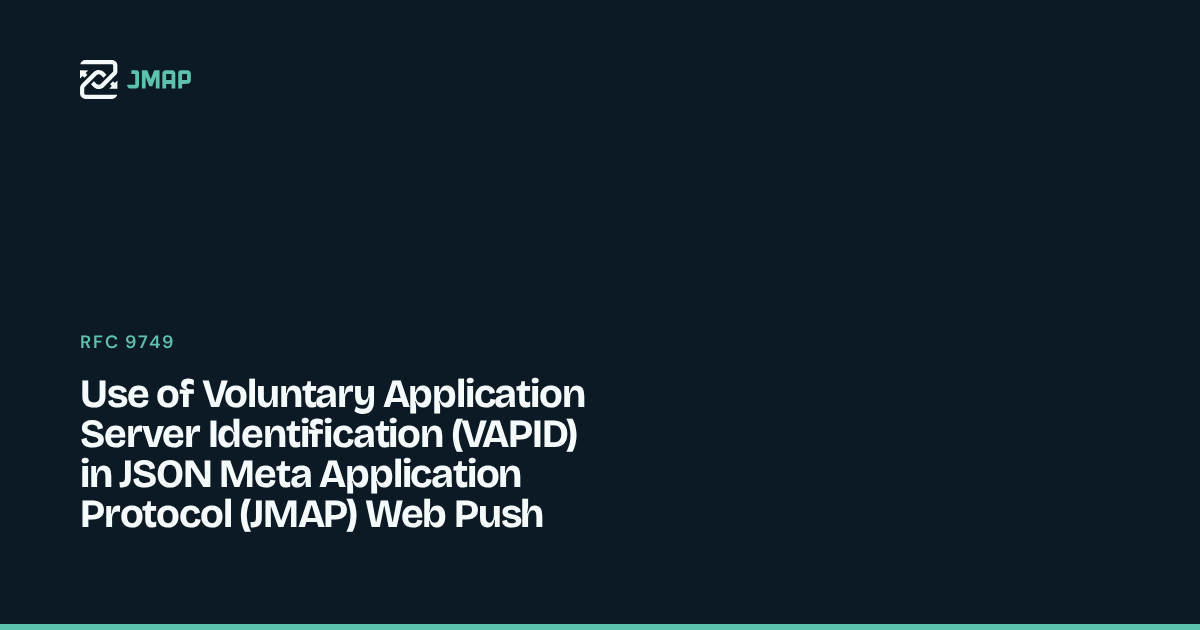
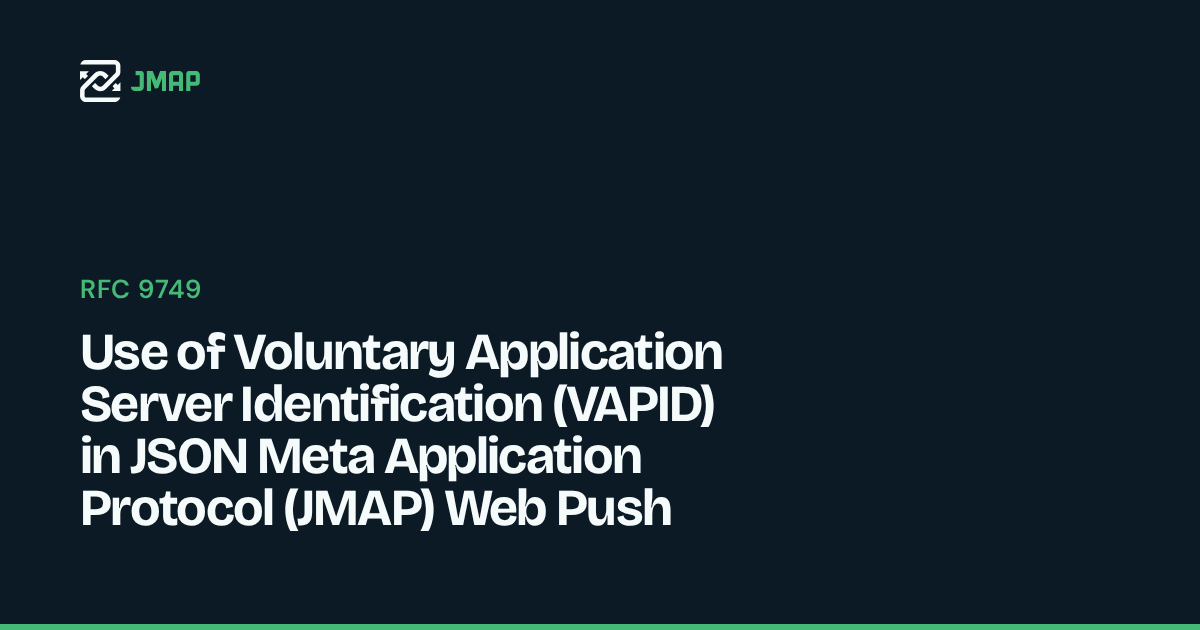
Update og images

diff --git a/_scripts/og-image.html b/_scripts/og-image.html
@@ -27,14 +27,18 @@
           position: absolute;
           top: 60px;
           left: 80px;
+
+          svg {
+            width: 120px;
+          }
       }
 
       .og-eyebrow {
           color: var(--theme-accent);
           font-family: var(--font-base);
-          font-size: 18px;
+          font-size: 26px;
           font-weight: 600;
-          letter-spacing: 0.1em;
+          letter-spacing: var(--tracking-loose);
           text-transform: uppercase;
           margin-bottom: 20px;
       }
@@ -42,22 +46,23 @@
       .og-title {
           color: var(--theme-ink);
           font-family: var(--font-display);
-          font-size: 64px;
+          font-size: 80px;
           font-weight: 700;
           line-height: 1;
           letter-spacing: -0.03em;
           max-width: 20ch;
+          letter-spacing: var(--tracking-tight);
       }
 
-      .og-title--md { font-size: 48px; }
-      .og-title--sm { font-size: 40px; }
+      .og-title--md { font-size: 64px; }
+      .og-title--sm { font-size: 52px; }
 
       .og-title + .og-description { margin-top: 24px; }
 
       .og-description {
           color: var(--theme-body);
           font-family: var(--font-base);
-          font-size: 22px;
+          font-size: 32px;
           line-height: 1.5;
           max-width: 50ch;
           display: -webkit-box;
@@ -78,7 +83,7 @@
   </head>
   <body>
     <div class="og-logo">
-      <svg xmlns="http://www.w3.org/2000/svg" width="111" height="39" viewBox="0 0 74 26" fill="none">
+      <svg xmlns="http://www.w3.org/2000/svg" viewBox="0 0 74 26" fill="none">
         <path fill="var(--theme-accent)" d="M50.5387 19.0693L50.5271 11.2073L48.1522 17.4977L46.1653 17.5016L43.7826 11.1917L43.7632 19.0693L41.2563 19.0655V6.77949L44.8653 6.77173L47.1587 12.8449L49.4483 6.77561H53.0378V19.0655L50.5387 19.0693Z" />
         <path fill="var(--theme-accent)" d="M61.04 15.93H57.431V19.0655H54.9009V8.78966C55.0445 7.67593 55.906 6.90758 57.008 6.77563H61.4319C62.4913 6.87653 63.3179 7.5634 63.543 8.61504V19.0655H61.0361V15.93H61.04ZM61.04 13.3843V9.33683H57.431V13.3882L61.04 13.3843Z" />
         <path fill="var(--theme-accent)" d="M71.7512 15.9067L68.0491 15.93V19.0694H65.4995V8.42879C65.4995 7.51685 66.2368 6.77954 67.1488 6.77954H71.7744C72.958 6.91536 73.8195 7.77685 73.8932 8.96044V13.6792C73.8932 14.8357 72.9697 15.9067 71.7473 15.9145L71.7512 15.9067ZM71.3592 13.3843V9.33686H68.0491V13.3882H71.3592V13.3843Z" />
